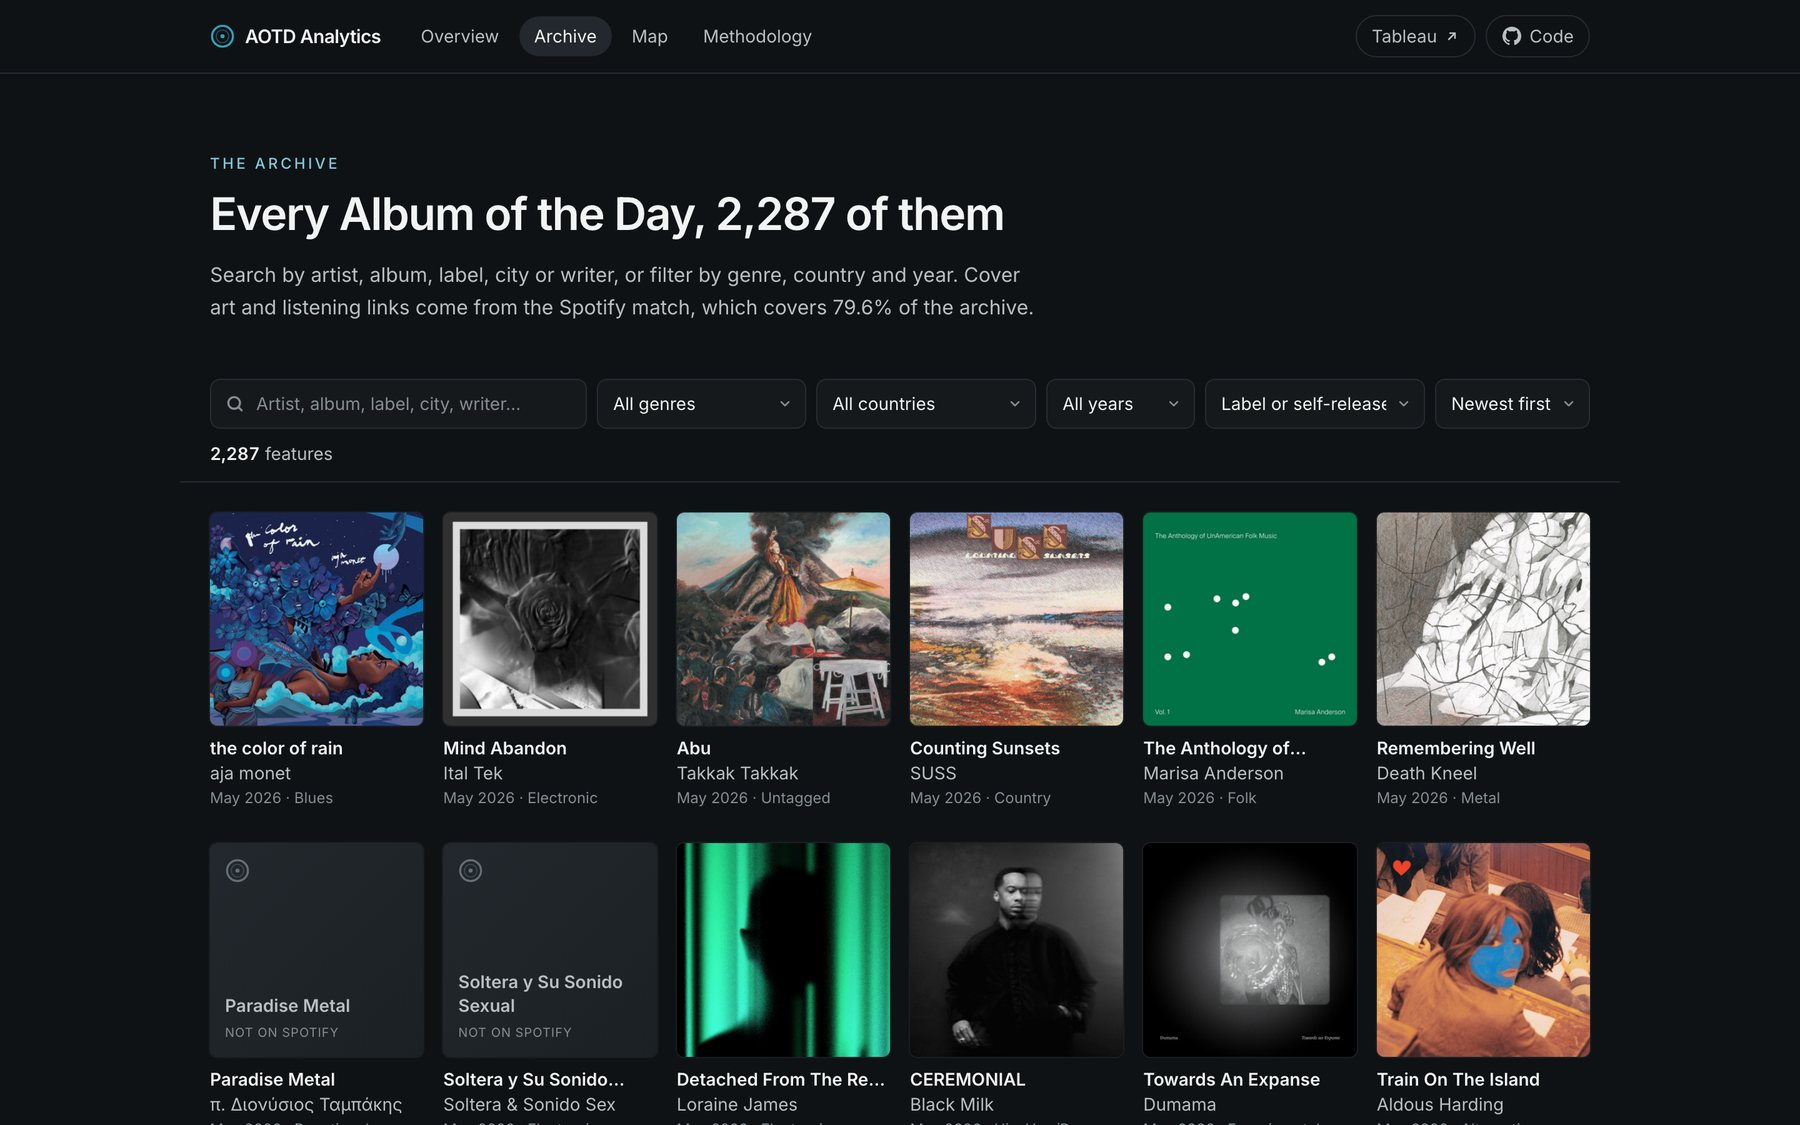
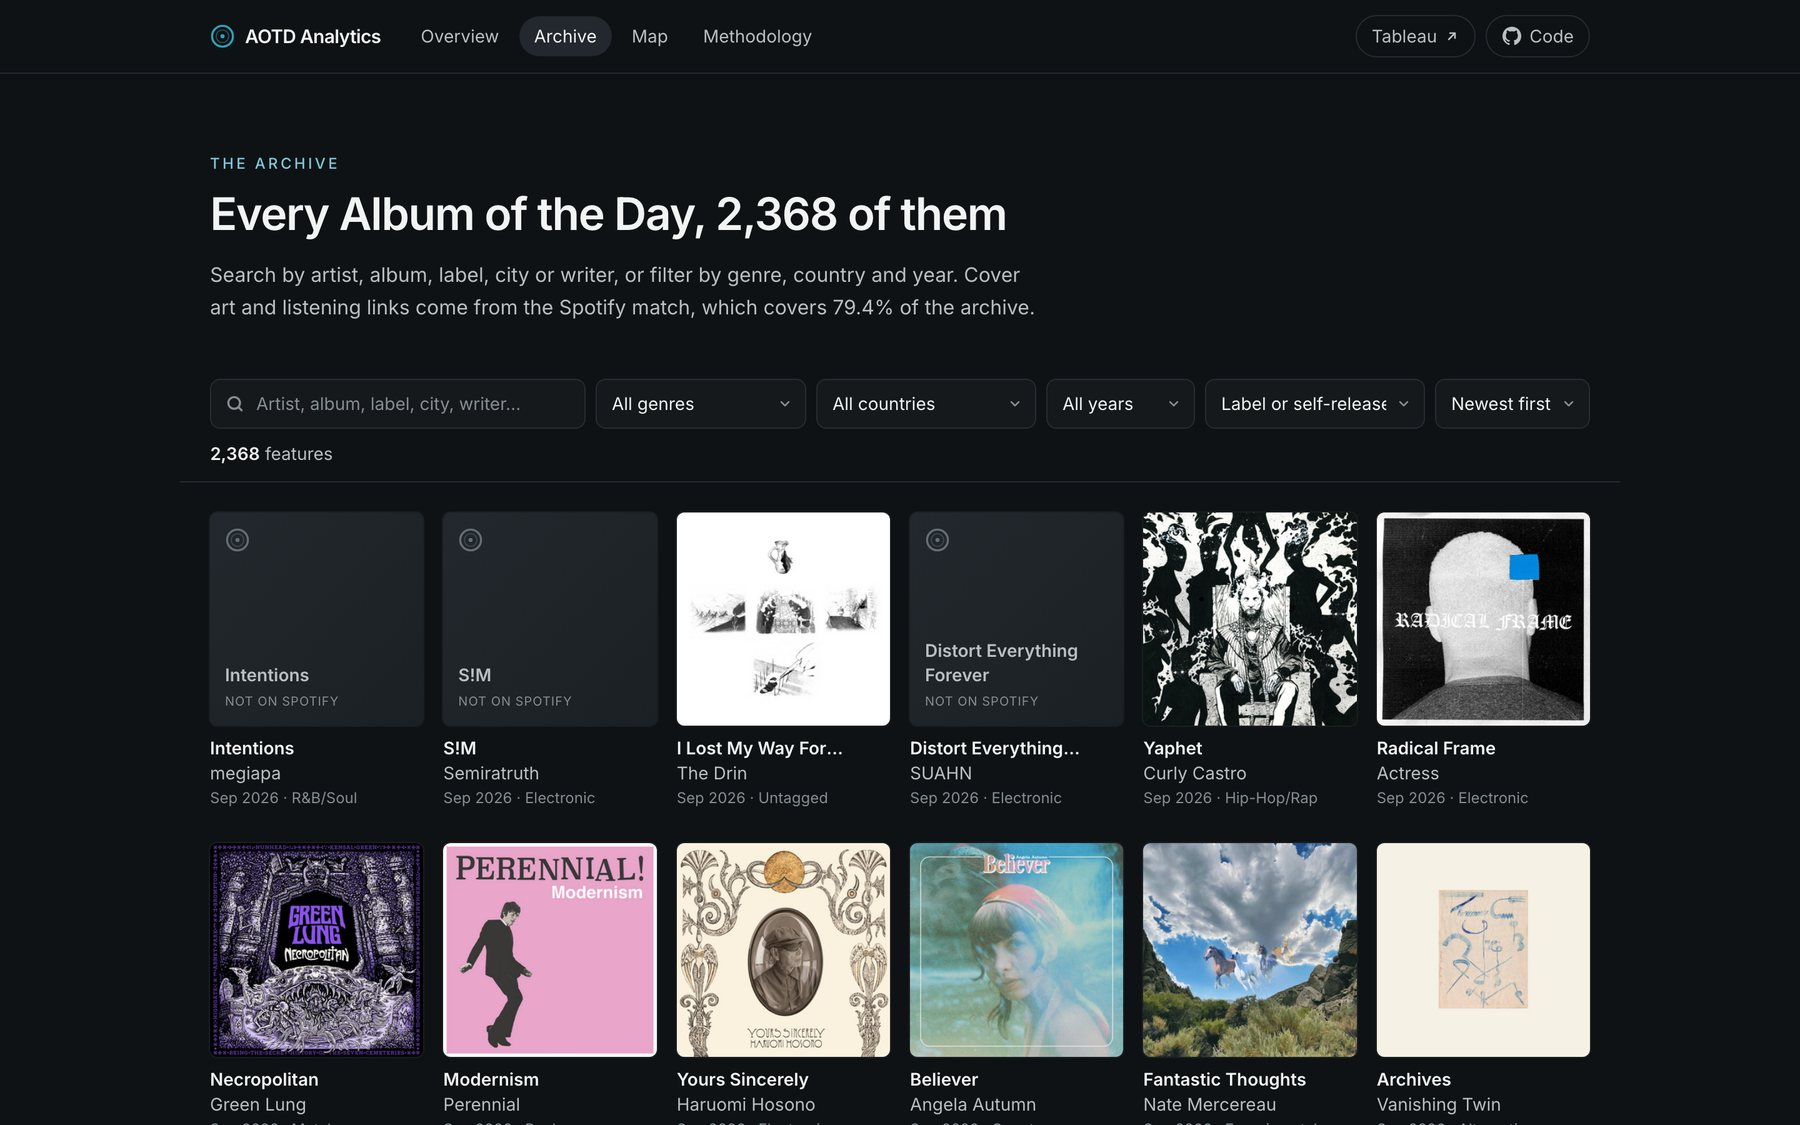
Update the Bandcamp project for the September 2026 refresh
2,368 features through Sep 24: refreshed findings (66.3% self-released,
29.0% by the top 15 of 349 writers, Pittsburgh 12 of 15, Chicago 27 of
98, 2026 US share to date), 96 tests, and screenshots and data preview
re-synced from the project repo.

sync-assets.cjs now takes optional slugs, so syncing one project no
longer re-copies every other project's files.

diff --git a/src/data/projects/bandcamp-aotd/bandcamp-aotd.js b/src/data/projects/bandcamp-aotd/bandcamp-aotd.js
@@ -23,7 +23,7 @@ export default {
   ],
   detail: {
     subtitle: "Personal Project — End-to-End Analytics",
-    overview: "Bandcamp Daily has picked an Album of the Day almost every weekday since 2011, and a feature there can make an unknown artist’s year. I scraped all 2,287 features, matched them to the Spotify Web API, cleaned 422 messy location strings into 80 countries, and loaded everything into a modelled Postgres warehouse on Supabase. A layer of SQL views defines every metric once, and a Tableau dashboard, six analysis notebooks and a live web app all read from it. The question: where does editorial attention actually go?",
+    overview: "Bandcamp Daily has picked an Album of the Day almost every weekday since 2011, and a feature there can make an unknown artist’s year. I scraped all 2,368 features, matched them to the Spotify Web API, cleaned 430 messy location strings into 80 countries, and loaded everything into a modelled Postgres warehouse on Supabase. A layer of SQL views defines every metric once, and a Tableau dashboard, six analysis notebooks and a live web app all read from it. The question: where does editorial attention actually go?",
     context: "Personal Project",
     duration: "2021 – 2026",
     contributors: ["Bryan Garcia"],
@@ -33,17 +33,17 @@ export default {
         title: "Key Findings",
         items: [
           "US-based labels account for 54.8% of located features, and the top three countries (US, UK, Canada) for 74.9%",
-          "The US share fell from 63.1% in 2017 to 44.2% in 2025, most of it in 2024–25. The same writers shifted rather than new ones arriving (χ² p = 0.02)",
-          "66.2% of features are self-released, and that share held between 60% and 71% every year",
-          "The 15 most active of 343 writers produced 29.5% of all coverage; genre specialisation, measured as Shannon entropy, ranges from 0.24 to 3.15 bits",
-          "City scenes are real but narrow: Pittsburgh metal (11 of 12 features) and Chicago jazz (27 of 95) clear the evidence bar, while famous clichés like Bristol trip-hop don’t",
+          "The US share fell from 63.1% in 2017 to 44.2% in 2025, most of it in 2024–25 (2026 so far: 49.4%). The same writers shifted rather than new ones arriving (χ² p = 0.02)",
+          "66.3% of features are self-released, and that share held between 60% and 71% every year",
+          "The 15 most active of 349 writers produced 29.0% of all coverage; genre specialisation, measured as Shannon entropy, ranges from 0.24 to 3.15 bits",
+          "City scenes are real but narrow: Pittsburgh metal (12 of 15 features) and Chicago jazz (27 of 98) clear the evidence bar, while clichés like Bristol trip-hop can’t even be tested",
         ],
       },
       {
         type: "highlights",
         title: "What I Built",
         items: [
-          "Python ELT pipeline (extract → transform → enrich → load) that is incremental, cached and idempotent, with 94 pytest tests",
+          "Python ELT pipeline (extract → transform → enrich → load) that is incremental, cached and idempotent, with 96 pytest tests",
           "Postgres warehouse on Supabase: a fact table, three dimensions and a pipeline audit trail, with upserts keyed on a SHA-1 content hash",
           "A semantic layer of 8 SQL views using CTEs and window functions, with lift and Shannon entropy computed in SQL",
           "A three-tab Tableau Public dashboard: Coverage, Editorial and Scenes",
@@ -57,16 +57,16 @@ export default {
           { src: `${P(SLUG)}/images/app-overview.jpg`, caption: "Overview — the question, headline numbers and latest features" },
           { src: `${P(SLUG)}/images/app-geography.jpg`, caption: "US share of coverage by year, with the table view one click away" },
           { src: `${P(SLUG)}/images/app-scenes.jpg`, caption: "City × genre lift, with the evidence behind every bar" },
-          { src: `${P(SLUG)}/images/app-archive.jpg`, caption: "Archive — all 2,287 features, searchable and filterable" },
+          { src: `${P(SLUG)}/images/app-archive.jpg`, caption: "Archive — all 2,368 features, searchable and filterable" },
           { src: `${P(SLUG)}/images/app-detail.jpg`, caption: "Feature detail with Spotify and Bandcamp links" },
           { src: `${P(SLUG)}/images/app-map.jpg`, caption: "Coverage by label country across 80 countries" },
         ],
       },
       {
         type: "data",
-        title: "Analytics Table — 2,287 Features",
+        title: "Analytics Table — 2,368 Features",
         dataUrl: `${P(SLUG)}/data/preview.json`,
-        totalRows: 2287,
+        totalRows: 2368,
         sources: [
           { name: "Bandcamp Daily — Album of the Day", url: "https://daily.bandcamp.com/album-of-the-day" },
           { name: "Spotify Web API", url: "https://developer.spotify.com/documentation/web-api" },
@@ -84,7 +84,7 @@ export default {
       {
         type: "text",
         title: "Caveats",
-        content: "Locations are record-label locations, not artist locations, and Bandcamp’s catalogue by country isn’t public, so coverage share describes what was featured rather than proving editorial preference; the trend over time is the robust part. “Self-released” is rule-derived, 13.6% of features carry no genre tag, and the 79.6% Spotify match rate is a lower bound on availability. Each caveat is stated on the page next to the number it qualifies.",
+        content: "Locations are record-label locations, not artist locations, and Bandcamp’s catalogue by country isn’t public, so coverage share describes what was featured rather than proving editorial preference; the trend over time is the robust part. “Self-released” is rule-derived, 13.1% of features carry no genre tag, and the 79.4% Spotify match rate is a lower bound on availability. Each caveat is stated on the page next to the number it qualifies.",
       },
     ],
   },
